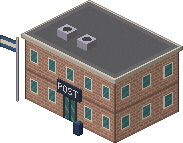
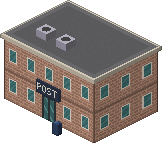
Flags wave, all flying the same way
The flag leaves the building sprites for an animated prop (civic/flag.png,
8 frames): a wave runs out along the cloth, growing toward the drooping free
end, with strips lit or shaded as they turn. Every flag flies toward -u off
its building's front left corner; the customs house's pair stand there one in
front of the other. Each flag starts at its own frame, out of step.

diff --git a/js/city.js b/js/city.js
@@ -1622,7 +1622,7 @@
       'buildings/brick-4.png': [0, 0, 0, CANOPY], 'buildings/hotel.png': [0, 0, 0, CANOPY], 'civic/hospital.png': [0, 0, 0, 0.5], 'nuclear/reactor.png': [0, 0, 0, 0.3], 'nuclear/turbine-hall.png': [0, 0.55, 0, 0.3], 'landmarks/tv-station.png': [0, 0, 0, 0.36], 'houses/diner.png': [0, 0.18, 0, 0],
       'buildings/fastfood.png': [0, 0.34, 0, 0], 'buildings/bistro.png': [0, 0.58, 0, 0], 'buildings/apartment-2.png': [0, 0.22, 0, 0.3],
       'civic/church.png': [0.04, 0.04, 0, 0.36], 'civic/bank.png': [0, 0, 0, 0.36],
-      'industry/brick-factory.png': [0, 0.1, 0, 0.1], 'civic/post-office.png': [0.3, 0, 0, 0.12], 'civic/school.png': [0.3, 0, 0, 0.12], 'civic/customs.png': [0.3, 0.3, 0, 0.14],
+      'industry/brick-factory.png': [0, 0.1, 0, 0.1], 'civic/post-office.png': [0.3, 0, 0, 0.12], 'civic/school.png': [0.3, 0, 0, 0.12], 'civic/customs.png': [0.34, 0, 0, 0.45],
     };
     const keepouts = [], doors = [];
     for (const lot of lots) {
@@ -1661,6 +1661,16 @@
       }
     }
     props.push(...late);
+    // Flagpoles by some civic buildings' front left corner, from the
+    // footprint's -u, +v corner; the flags all fly toward -u, off the walls.
+    const FLAGS = { 'civic/school.png': [[-0.02, 0.1]], 'civic/post-office.png': [[-0.02, 0.1]],
+      'civic/customs.png': [[-0.02, 0.12], [-0.02, 0.42]] };
+    for (const [kind, u0, , , v1] of lots) {
+      for (const [du, dv] of (kind.startsWith('art:') && FLAGS[kind.slice(4)]) || []) {
+        const u = u0 + du, v = v1 + dv;
+        props.push(['art/civic/flag.png', u, v, [u - 0.31, u + 0.02, v - 0.02, v + 0.02]]);
+      }
+    }
     // Drawn over the TV station, just in front of it in paint order.
     if (tvLed) for (const n of ['ads-side', 'ads-front', 'lift']) props.push([`art/landmarks/tv-${n}.png`, tvLed[0], tvLed[1],
       [tvLed[0] + 0.6, tvLed[0] + 0.7, tvLed[1] + 0.6, tvLed[1] + 0.7]]);
@@ -2364,8 +2374,9 @@
         const item = { src, frames: m.frames, rect: [Math.round(x - ax), Math.round(y - ay), w, h],
           box: box || [u - a / 2, u + a / 2, v - b / 2, v + b / 2] };
         if (/smoke|steam/.test(src)) item.sky = true;  // up in the air: drawn after everything
+        const phase = src.includes('/flag') ? Math.floor(Math.abs(u * 3.7 + v * 5.3)) % item.frames : 0;   // flags out of step
         item.draw = c => {
-          const f = item.frameOf ? item.frameOf() : Math.floor(clock * ANIM_FPS) % item.frames;
+          const f = item.frameOf ? item.frameOf() : (Math.floor(clock * ANIM_FPS) + phase) % item.frames;
           c.drawImage(img[src], f * w, 0, w, h, item.rect[0], item.rect[1], w, h);
         };
         if (src.includes('parking/gate')) {            // raised as the hero comes near: open 0..1

diff --git a/tools/art.py b/tools/art.py
@@ -1364,12 +1364,26 @@ def pyramid(s, x0, y0, sx, sy, z, h, roof):
         s.face(o, np.subtract(q, o), np.subtract(apex, o), rows, tri=True, light=light)
 
 
-def flagpole(s, x, y, h=62, colors=("#3a5a7a", "#d8ccb4", "#3a5a7a"), dir=1):
-    """A pole at (x, y) whose flag flies along u (dir -1: toward -u, off a
-    building's left corner), drooping a little at the free end."""
-    s.box(x - 0.008, y - 0.008, 0, 0.016, 0.016, h, flat(s, "#d8d4dc"), flat(s, "#b3afbd"), flat(s, "#8e8897"))
-    s.face((x + 0.01 * dir, y, h - 14), (0.27 * dir, 0, -2), (0, 0, 12), banded(s, [rgb(c) for c in colors], 3, axis=1), light=0.95)
-    s.blob((x, y, h + 1), 1.4, ramp("#8a6a2e", "#c9a84a", "#f2c06a"))
+def flag(seed, p, h=66, L=0.3, H=12, colors=("#3a5a7a", "#d8ccb4", "#3a5a7a")):
+    """Flagpole with its flag flying toward -u at phase p: a wave runs out
+    along the cloth, growing toward the free end, which droops a little.
+    Strips turned toward the light are lit, those turned away shaded."""
+    s = Sprite(70, 100, 50, 88, seed)
+    s.box(-0.008, -0.008, 0, 0.016, 0.016, h, flat(s, "#d8d4dc"), flat(s, "#b3afbd"), flat(s, "#8e8897"))
+    n = 10
+    pts = []
+    for k in range(n + 1):
+        t = k / n
+        pts.append((-0.01 - L * t, 0.03 * t * math.sin(math.tau * (p - t * 1.1)), h - 2 - H - 3 * t * t))
+    band = banded(s, [rgb(c) for c in colors], 3, axis=1)
+    for k in range(n):
+        o, q = pts[k], pts[k + 1]
+        e1 = [(q[i] - o[i]) * (1.2 if k < n - 1 else 1) for i in range(3)]   # a little overlap: no seams
+        slope = (q[1] - o[1]) / (L / n)
+        s.face(o, e1, (0, 0, H), band, light=0.95 + max(-0.22, min(0.22, slope * 0.9)))
+    s.blob((0, 0, h + 1), 1.4, ramp("#8a6a2e", "#c9a84a", "#f2c06a"))
+    s.outline(0.7)
+    return s
 
 
 def wall_sign(s, cx, y, z, width, text, board="#2c3548", ink="#e0d8c8", height=11):
@@ -1426,7 +1440,6 @@ def school(seed):
     s.box(cx, cy, hgt + 1, 0.2, 0.2, 13, flat(s, "#e0d8c8"),
           wall_shader(s, "#e0d8c8", 14, 13, 1, [], (0.3, 0.7)), wall_shader(s, "#e0d8c8", 14, 13, 1, [], (0.3, 0.7)))
     pyramid(s, cx - 0.02, cy - 0.02, 0.24, 0.24, hgt + 14, 11, SLATE)
-    flagpole(s, x0 - 0.02, y0 + b + 0.1, dir=-1)
     s.outline(0.7)
     return s, (a, b)
 
@@ -1577,7 +1590,6 @@ def post_office(seed):
     mx, my = x0 + a * 0.66, y0 + b + 0.1
     s.box(mx, my, 0, 0.08, 0.07, 11, flat(s, "#34486a"), flat(s, "#2c3e5c"), flat(s, "#243350"))
     s.blob((mx + 0.04, my + 0.035, 11), 3.2, ramp("#1f2c44", "#2c3e5c", "#34486a", "#45608a"), squash=0.6)
-    flagpole(s, x0 - 0.02, y0 + b + 0.1, dir=-1)
     s.outline(0.7)
     return s, (a, b)
 
@@ -3123,8 +3135,6 @@ def customs(seed):
     flat_roof(s, x0, y0, a, b, hgt + 1, "#5b5a5c", units=2)
     wall_sign(s, x0 + a * 0.5, y0 + b, 36, 0.62, "CUSTOMS", "#2c3548", "#e8e0cc", 12)
     s.box(x0 + a * 0.4, y0 + b, 0, a * 0.2, 0.2, 3, *(flat(s, c) for c in ("#e0d8c8", "#c9bfae", "#b3a998")))
-    for fx, d in ((x0 - 0.02, -1), (x0 + a + 0.02, 1)):
-        flagpole(s, fx, y0 + b + 0.12, 70, dir=d)
     s.outline(0.7)
     return s, (a, b)
 
@@ -4397,6 +4407,7 @@ def main():
         save(spr, f"port/warehouse-{name}.png", footprint=[fa, fb])
     spr, (fa, fb) = customs(215)
     save(spr, "civic/customs.png", footprint=[fa, fb], group="civic", unique="district")
+    save_anim([flag(216, f / 8) for f in range(8)], "civic/flag.png", footprint=[0.05, 0.05])
     # Industry.
     spr, (fa, fb) = sawtooth_factory(220)
     save(spr, "industry/brick-factory.png", footprint=[fa, fb])
